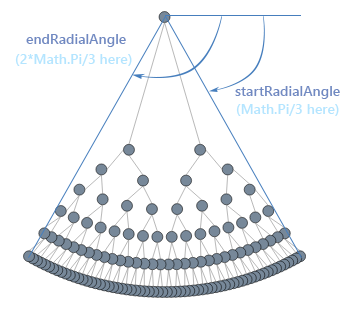
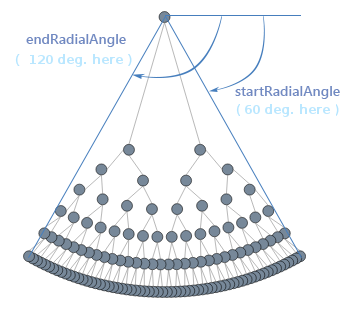
Change startRadialAngle and endRadialAngle to accept decimal degrees

Changed region(s): [[0.6877, 0.3194, 0.9742, 0.3774], [0.0573, 0.1742, 0.3725, 0.2323]]

diff --git a/api/dataviz/diagram.md b/api/dataviz/diagram.md
@@ -156,11 +156,11 @@ Defines the radial separation between the levels (except the first one which is 
 
 ### layout.startRadialAngle `Number` *(default: 0)*
 
-Defines where the circle/arc starts. The positive direction is **clockwise** and the angle is in **radians**. *This setting is specific to the radial tree layout.*
+Defines where the circle/arc starts. The positive direction is **clockwise** and the angle is in **degrees**. *This setting is specific to the radial tree layout.*
 
-### layout.endRadialAngle `Number` *(default: 6.283185307179586)*
+### layout.endRadialAngle `Number` *(default: 360)*
 
-Defines where the circle/arc ends. The positive direction is **clockwise** and the angle is in **radians**. Default is 2\*Math.PI. *This setting is specific to the radial tree layout.*
+Defines where the circle/arc ends. The positive direction is **clockwise** and the angle is in **degrees**. *This setting is specific to the radial tree layout.*
 
 ### layout.underneathVerticalTopOffset `Number` *(default: 15)*
 
